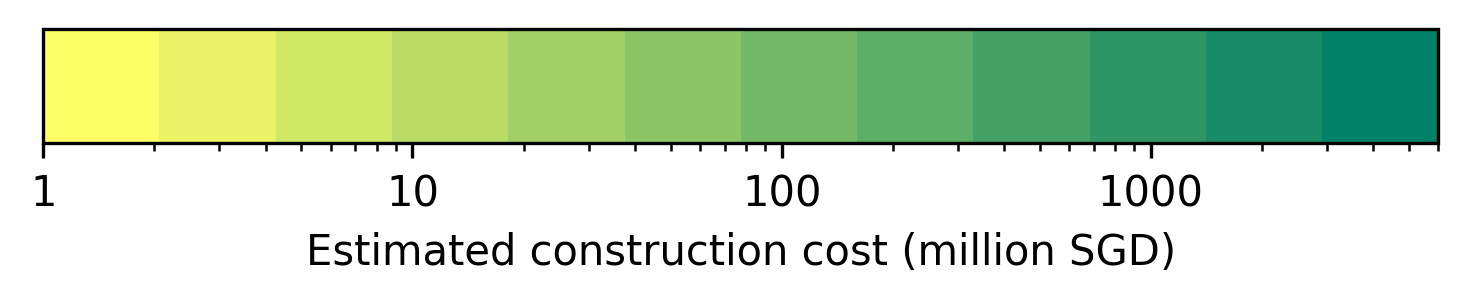
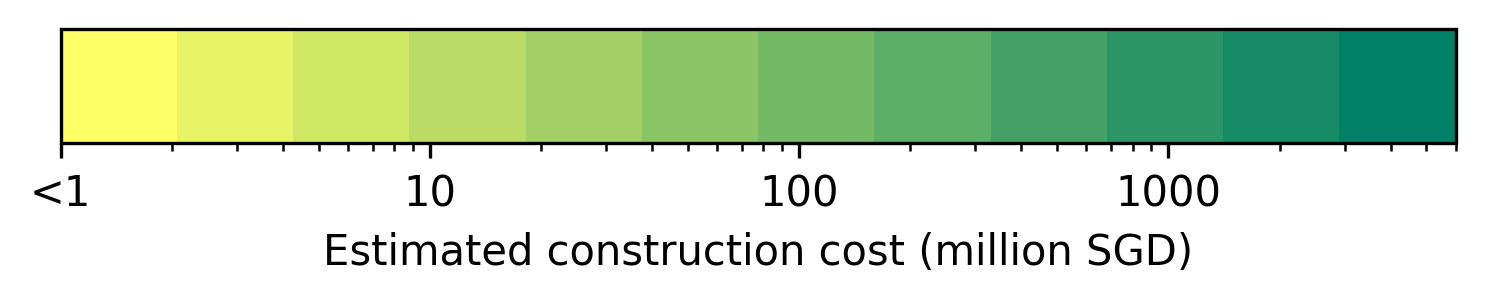
1818-dev-sealevelimpactagent-fix: modified label of first tick in colourbar

diff --git a/Deploy/stacks/Singapore-sea-level-rise/colorbar_generator/colourbar.py b/Deploy/stacks/Singapore-sea-level-rise/colorbar_generator/colourbar.py
@@ -32,7 +32,7 @@ def create_colors():
                                     norm=norm, ticks=ticks,
                                     orientation='horizontal')
     cb2.set_label('Estimated construction cost (million SGD)')
-    cb2.set_ticklabels(['1', '10', '100', '1000'])
+    cb2.set_ticklabels(['<1', '10', '100', '1000'])
     plt.savefig("cost.png", bbox_inches='tight',
                 transparent=True, dpi=300)
 
